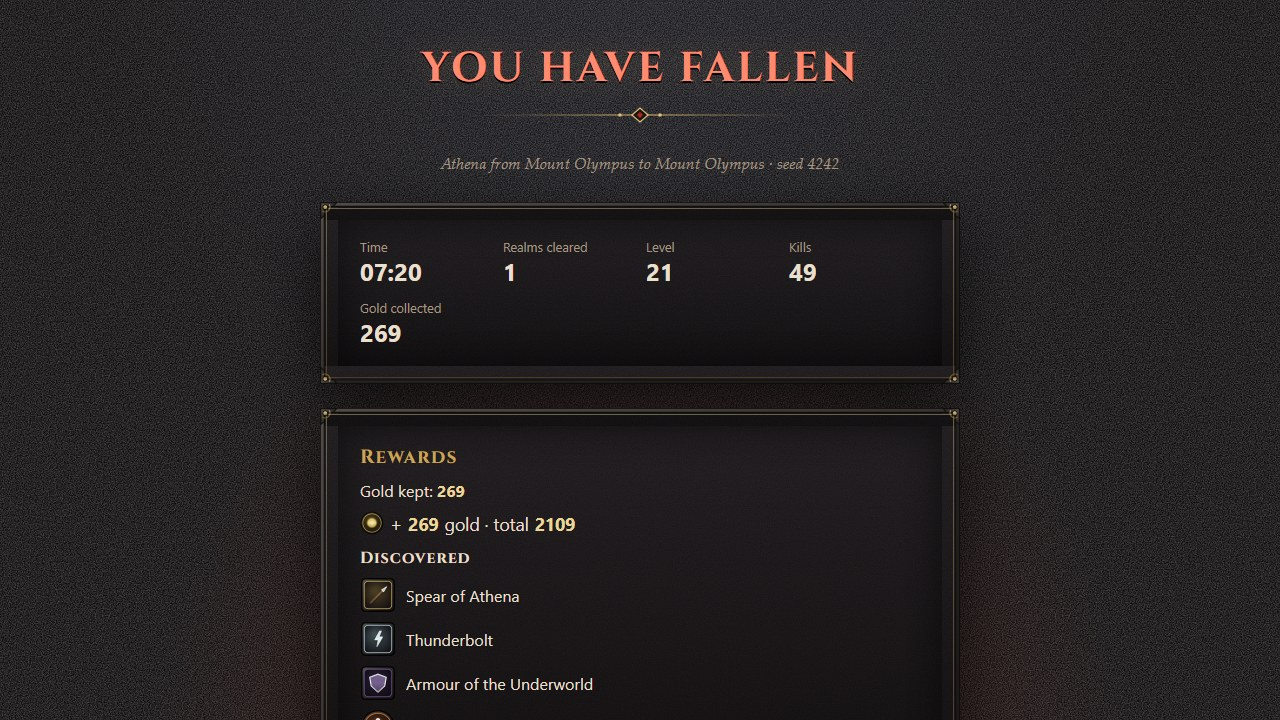
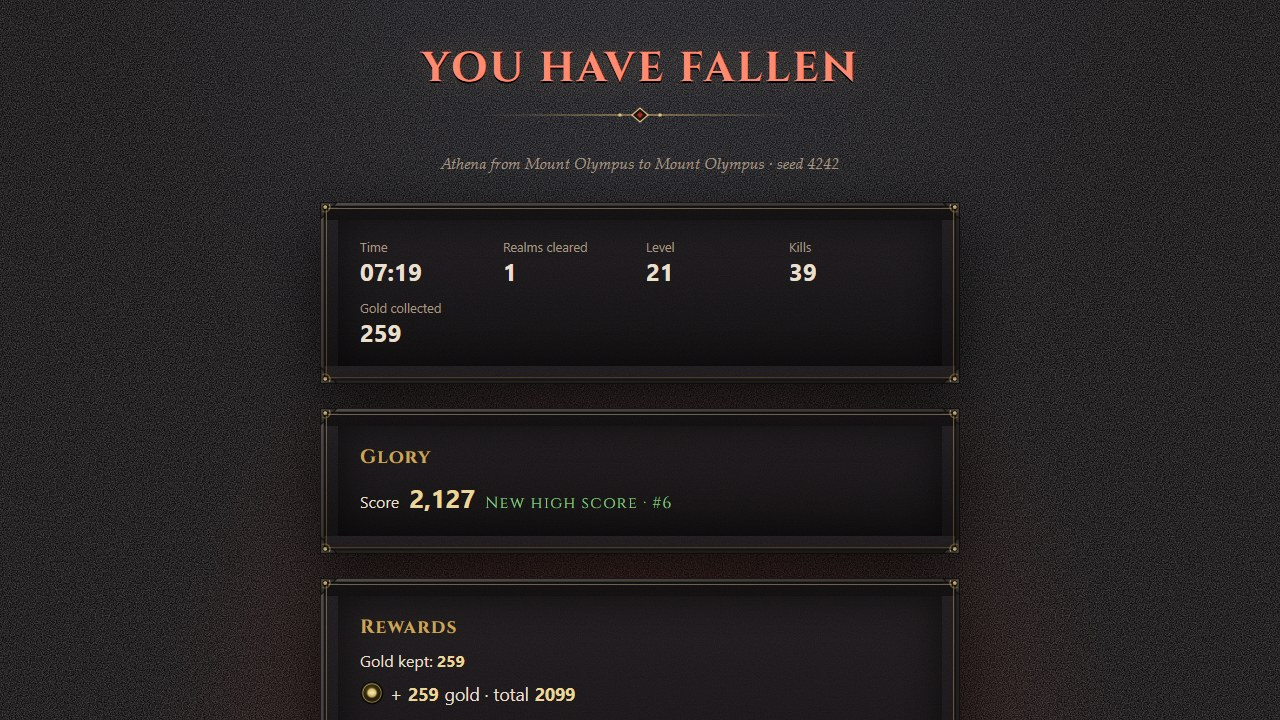
Docs and pictures for stamina, glory and the merchant
New shots of the Hall of Glory and the merchant's shop, a GIF of companions
fighting beside Athena with a dash, and every other picture regenerated (new HUD
and menu). The capture save now has glory records. README, gameplay and roadmap
describe the three new releases.

The HUD hides the gate and merchant banners while a choice is open; they showed
through on top of the dialog's title.

diff --git a/client/src/app/features/game/hud.ts b/client/src/app/features/game/hud.ts
@@ -111,7 +111,7 @@ const VESSEL_BOTTOM = 130;
       </div>
     }
 
-    @if (h.gate; as gate) {
+    @if (h.phase === 'playing' && h.gate; as gate) {
       <div class="gate" data-testid="hud-gate" role="status">
         <span class="gate-title">The gate to {{ gate.to }} is open</span>
         <span class="gate-time"
@@ -120,7 +120,7 @@ const VESSEL_BOTTOM = 130;
       </div>
     }
 
-    @if (h.merchant && !h.gate) {
+    @if (h.merchant && !h.gate && h.phase === 'playing') {
       <div class="gate merchant" data-testid="hud-merchant" role="status">
         <span class="gate-title">The Wandering Merchant is near</span>
         <span class="gate-time"

diff --git a/docs/gameplay.md b/docs/gameplay.md
@@ -62,13 +62,13 @@ Runs take place at night. The arena is dark beyond your light; braziers ring the
 
 ## The HUD
 
-Health fills an **amphora** (bottom left), the experience bar and your weapons, armour and relics sit along the bottom, the divine ability waits in an iron slot (bottom right) with a dark cooldown sweep and the seconds left, the run time sits in the top plaque with gold and kills at the top right, active synergies at the top left, and the boss appears in a banner under the timer.
+Health fills an **amphora** (bottom left) with the gold **stamina** bar and the dash pip beneath it, the experience bar and your weapons (each with its own cooldown sweep), armour, relics and companions sit along the bottom, the divine ability waits in an iron slot (bottom right) with a dark cooldown sweep that turns smoothly, the seconds left and a flash when it is ready, the run time sits in the top plaque with gold and kills at the top right, active synergies at the top left, and the boss appears in a banner under the timer.
 
 **Health bars:** every monster that has been hurt shows a thin red bar above it (Settings → *Enemy health bars* hides them); elites keep their gold bar and the boss its banner.
 
 **Party health** (co-op, on the left): every god in the run in their seat's colour (the same as on the minimap), with their god, name, a health bar and the numbers; your own is marked *(you)*, and a fallen god shows how far their revive has come.
 
-**Minimap** (top right, under the gold and kills): the whole realm with its walls and the boss arena; monsters as red dots (elites larger and gold), the boss as a large red mark once it wakes, the open gate as a pale ring, every god in their own colour (yours largest, with a white rim; fallen gods as hollow rings), and the outline of what the screen shows.
+**Minimap** (top right, under the gold and kills): the whole realm with its walls and the boss arena; monsters as red dots (elites larger and gold), the boss as a large red mark once it wakes, the open gate as a pale ring, the merchant as a gold diamond, every god in their own colour (yours largest, with a white rim; fallen gods as hollow rings), and the outline of what the screen shows.
 
 ## Zeus, King of the Sky
 
@@ -212,6 +212,10 @@ The Minotaur, king of the Labyrinth, with a bronze labrys (18,000 health, 380 go
 
 ## The Wandering Merchant
 
+| The shop | Companions fighting, and a dash |
+|---|---|
+| ![The merchant's shop](images/shop.jpg) | ![Companions fighting beside Athena, and a dash](images/merchant.gif) |
+
 Twice in every realm (at 2:30 and 5:30) a merchant arrives a short walk from the party, announced, marked on the minimap and by a gold arrow at the screen's edge, lit by a lantern and standing in a golden ring. A banner counts down the 75 seconds until it leaves. Step into the ring to trade (the run pauses; in a room the others wait). Prices are in the run's gold (in a room, the party's shared purse) and grow by half for every realm cleared; what you spend no longer counts toward the gold you keep. Leave the shop and it opens again only when you step out and back in.
 
 | Ware | Price | What it does |
@@ -232,6 +236,8 @@ Twice in every realm (at 2:30 and 5:30) a merchant arrives a short walk from the
 - Statistics: runs, realms cleared, total kills, best survival time.
 
 ## Glory
+
+![High scores, achievements and daily quests in the Hall of Glory](images/glory.jpg)
 
 Every run earns a **score**: kills + 2 per second survived + 10 per level + 1,000 per realm cleared. The **Hall of Glory** (main menu → Glory) keeps the ten best solo runs and, apart from them, the ten best co-op runs, with a filter per god.
 

diff --git a/README.md b/README.md
@@ -6,15 +6,20 @@ An original mythological horde-survival roguelite that runs entirely in the brow
 
 <img src="docs/images/hero.gif" width="100%" alt="A run in every realm: Mount Olympus, the Underworld, the Lernaean Marsh, the Aegean Shore and the Labyrinth of Crete">
 
-- **Four gods:** Zeus, Hades, Poseidon and Athena, each with a starting weapon, a divine ability and a passive.
+- **Four gods:** Zeus, Hades, Poseidon and Athena, each with a starting weapon, a divine ability, a passive and an arsenal of their own (Thunderbolt is Zeus's alone, the Soul Scythe Hades's).
+- **Sprint and dash:** a stamina bar under your health; sprint away, or dash through an attack untouched.
 - **Five realms, endless runs:** Mount Olympus, the Underworld, the Lernaean Marsh, the Aegean Shore and the Labyrinth of Crete. Each has its own map, monsters and boss: the Cyclops, Cerberus, the Hydra, Scylla and Asterion. After the Labyrinth comes Olympus again, harder.
 - **Build a god:** 10 weapons, 4 armours, 6 relics, 16 skills and 7 synergies; permanent upgrades and a codex between runs.
+- **The Wandering Merchant:** twice a realm, trade the run's gold for companions (an eagle, a hound, a serpent) that fight beside you, whetstones and ambrosia.
+- **Glory:** a score for every run, solo and co-op high scores, 18 achievements and three daily quests.
 - **Co-op:** rooms for up to four players, peer to peer, with difficulty per player; a living ally revives a fallen god by standing beside their spirit.
 - **Night and myth:** dynamic light, fog and torchlight, and a cast rendered in Blender from licensed models (`art/blender/`).
 
 | Every realm's boss | Level up | The gate onward |
 |---|---|---|
 | ![The boss of every realm](docs/images/bosses.jpg) | ![A level-up choice](docs/images/level-up.jpg) | ![The gate to the next realm](docs/images/gate.jpg) |
+| **The Wandering Merchant** | **Companions at your side** | **The Hall of Glory** |
+| ![The merchant's shop](docs/images/shop.jpg) | ![Companions fighting beside Athena, and a dash](docs/images/merchant.gif) | ![High scores, achievements and daily quests](docs/images/glory.jpg) |
 
 **Play it:** [david-letonja-ctg.github.io/Olympus-Unbound](https://david-letonja-ctg.github.io/Olympus-Unbound/), or download the game from [Releases](https://github.com/David-Letonja-CTG/Olympus-Unbound/releases)
 
@@ -30,7 +35,7 @@ npm ci
 npm start          # http://localhost:4200
 ```
 
-WASD/arrows or a gamepad to move, Space (A) for the god's divine ability, Esc (Start) to pause, 1–3 to pick upgrades.
+WASD/arrows or a gamepad to move, Shift (LB) to sprint, E (B) to dash, Space (A) for the god's divine ability, Esc (Start) to pause, 1–3 to pick upgrades.
 
 Checks (CI runs the same on every push and pull request):
 

diff --git a/docs/product-vision.md b/docs/product-vision.md
@@ -34,6 +34,8 @@ Choose a god (Zeus, Hades, …) → choose a realm (Olympus, Atlantis, Egyptian 
 | 0–5 Vertical slice | Zeus, Mount Olympus, 8 weapons, 4 armour, 6 relics, 16 skills, 7 synergies, 8 enemies, elites, the Cyclops, run summary, permanent upgrades, codex, settings | **Done** (`add-vertical-slice`) |
 | 6 Content and polish | More weapons/relics, music, richer effects and animation, UI refinement, balance passes | Next |
 | 6b Gods, realm and co-op | Hades, Poseidon, Athena; a painted realm and loading screen; co-op parties (difficulty per player) and online rooms by code | **Done** (`add-hades` … `add-coop-rooms`) |
-| 7 Expansion | Atlantis and further realms and bosses; unlockable gods/realms; achievements; controller refinement; reviving allies, host migration; local co-op; mobile controls if prioritized | Later |
+| 6c Endless realms | The chain of realms through gates, reviving allies; the Underworld, Lernaean Marsh, Aegean Shore and Labyrinth of Crete with their bosses; minimap, health bars, recorded sound, GitHub Pages releases | **Done** (`add-endless-runs` … `record-sounds`) |
+| 6d Mechanics and goals | Stamina, sprint and dash; each god's own arsenal; glory score, solo and co-op high scores, achievements, daily quests; admin statistics and balance report; the Wandering Merchant and companions | **Done** (`add-stamina-dash-and-god-arsenals`, `add-glory-records-and-quests`, `add-merchants-and-companions`) |
+| 7 Expansion | Atlantis and further realms and bosses; unlockable gods/realms; more wares and companion upgrades; controller refinement; host migration; local co-op; mobile controls if prioritized | Later |
 
 Each step is an OpenSpec change (see `CLAUDE.md`).
